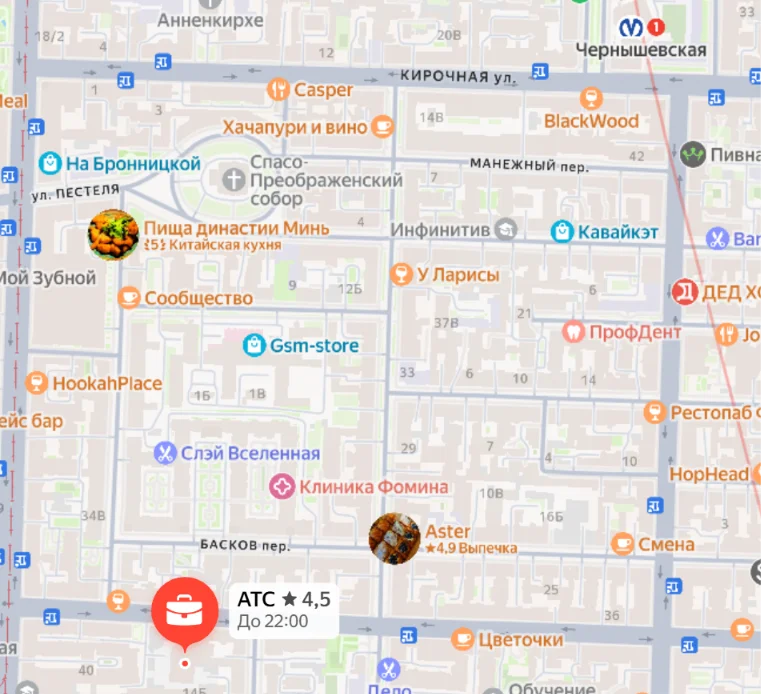
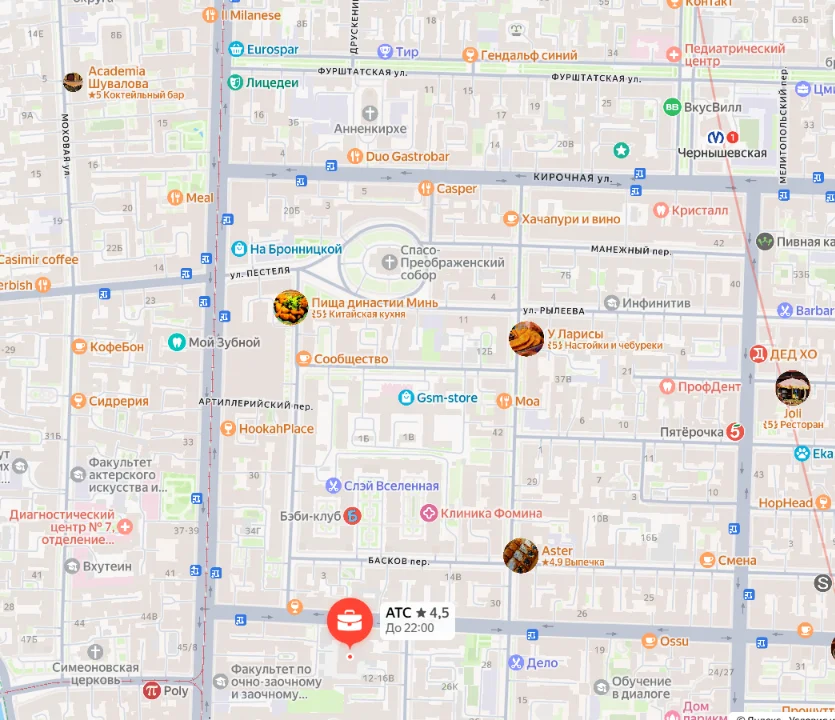
Место проведения: новый скрин карты, крупнее

diff --git a/css/style.css b/css/style.css
@@ -304,8 +304,8 @@ ul, ol { margin: 0; padding: 0; list-style: none; }
 .place__map::before { content: ""; position: absolute; inset: 20px -14px -14px 20px; border: 3px solid var(--blue); z-index: 0; }
 .place__links { display: flex; flex-wrap: wrap; gap: 12px; }
 .place__shot { position: absolute; inset: 0; display: block; overflow: hidden; border: 3px solid var(--blue); background: var(--blue-soft); z-index: 1; }
-/* метка «АТС» на скрине — внизу слева, держим её в кадре при обрезке */
-.place__shot img { display: block; width: 100%; height: 100%; object-fit: cover; object-position: 24% 86%; transition: transform .5s var(--ease); }
+/* метка «АТС» на скрине — внизу, чуть левее центра, держим её в кадре при обрезке */
+.place__shot img { display: block; width: 100%; height: 100%; object-fit: cover; object-position: 42% 86%; transition: transform .5s var(--ease); }
 .place__shot:hover img { transform: scale(1.03); }
 
 /* ---------- Contacts ---------- */

diff --git a/index.php b/index.php
@@ -303,7 +303,7 @@ $tiers    = [
     </div>
     <div class="place__map reveal">
       <a class="place__shot" href="https://yandex.ru/maps/?pt=30.351440%2C59.938782&amp;z=17&amp;l=map" target="_blank" rel="noopener" aria-label="Открыть место на карте: <?= e($set['address']) ?>">
-        <img src="<?= asset('assets/place-map.webp') ?>?v=<?= asset_v('assets/place-map.webp') ?>" alt="Карта: <?= e($set['venue']) ?>, <?= e($set['address']) ?>" width="761" height="694" loading="lazy" decoding="async">
+        <img src="<?= asset('assets/place-map.webp') ?>?v=<?= asset_v('assets/place-map.webp') ?>" alt="Карта: <?= e($set['venue']) ?>, <?= e($set['address']) ?>" width="835" height="720" loading="lazy" decoding="async">
       </a>
     </div>
   </div>
